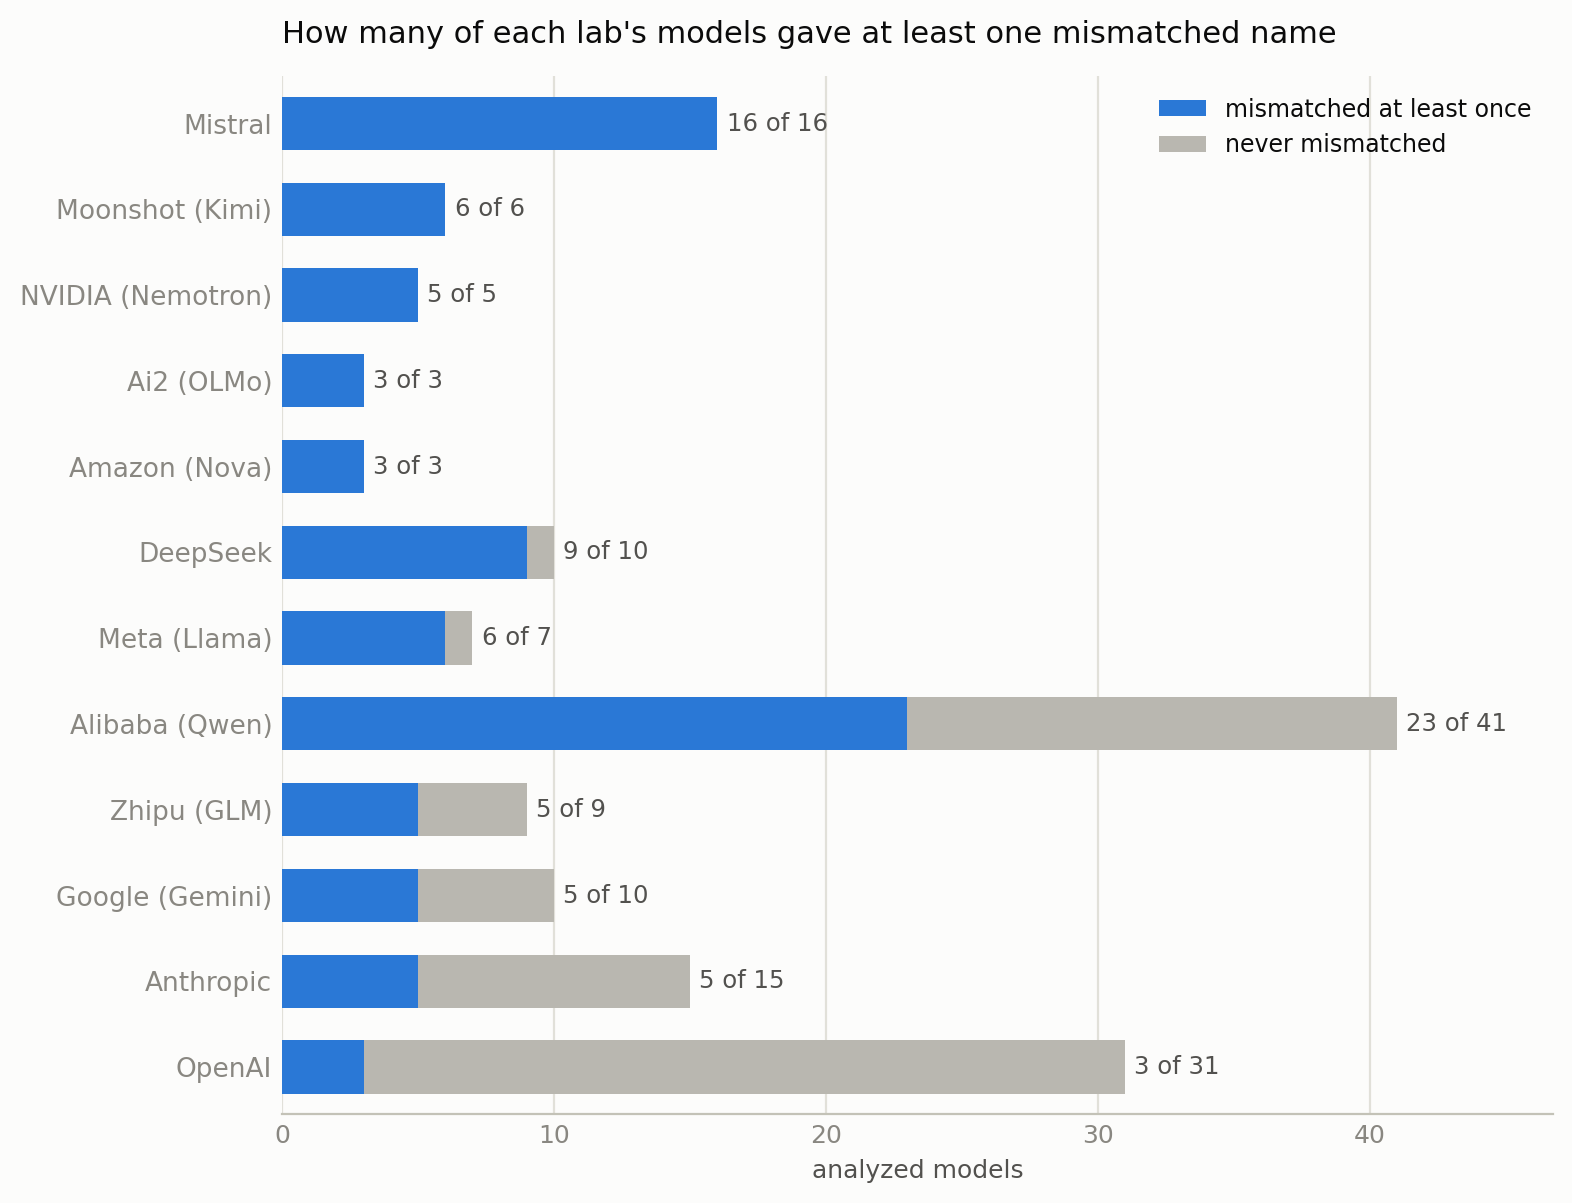
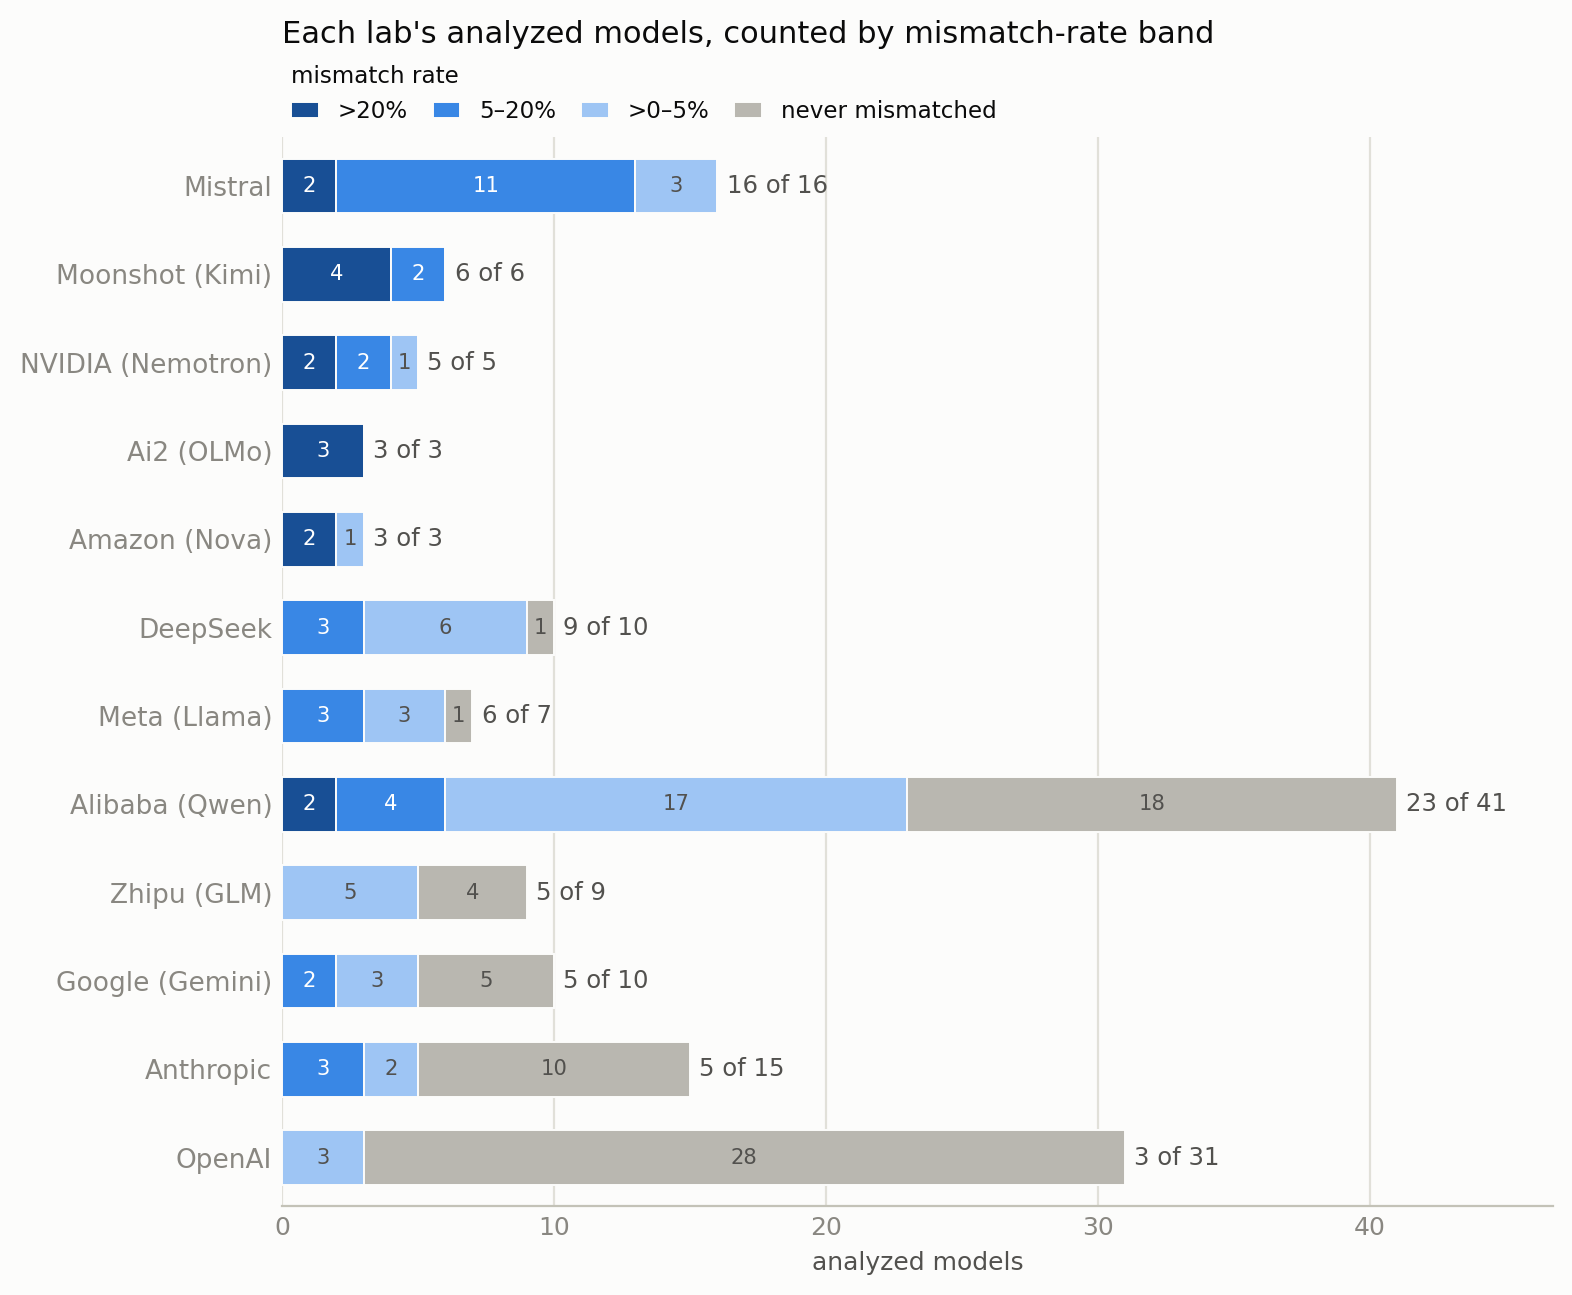
fig_family_counts: band each lab's models by mismatch rate (same bands/colors as fig_distribution)
Claude-Session: https://claude.ai/code/session_01Anj4JvuNgPGS3kunnJgPkZ

Changed region(s): [[0.0312, 0.0, 0.9663, 0.9842]]

diff --git a/sweep/fig_post.py b/sweep/fig_post.py
@@ -72,35 +72,49 @@ NEVER_GRAY = "#b9b7b0"   # the house data-gray (fig_all_models "other", fig_flow
 
 
 def fig_family_counts(reg, per):
-    """Per major lab (≥3 analyzed models): how many of its models gave at least
-    one mismatched response vs never did. Read off "16 of 16 Mistrals"."""
+    """Per major lab (≥3 analyzed models): its models counted into the SAME four
+    mismatch-rate bands (and colors) as fig_distribution, stacked severe→never.
+    The bar-end annotation keeps the "16 of 16 Mistrals" reading."""
+    BANDS = [(">20%", lambda r: r > 20, SEQ[6]),
+             ("5–20%", lambda r: 5 < r <= 20, SEQ[4]),
+             (">0–5%", lambda r: 0 < r <= 5, SEQ[2]),
+             ("never mismatched", lambda r: r == 0, NEVER_GRAY)]
     rows = []
     for slug in MAIN_LABS:
         mids = [m for m in per if reg[m]["family"] == slug]
         if len(mids) < 3:
             continue
-        hit = sum(1 for m in mids if per[m]["d"] > 0)
-        rows.append((FAMILY_DISPLAY.get(slug, slug), hit, len(mids)))
-    rows.sort(key=lambda r: (r[1] / r[2], r[2]))          # top row = highest fraction
+        rates = [100 * per[m]["d"] / per[m]["n"] for m in mids]
+        counts = [sum(1 for r in rates if f(r)) for _, f, _ in BANDS]
+        rows.append((FAMILY_DISPLAY.get(slug, slug), counts, len(mids)))
+    rows.sort(key=lambda r: ((r[2] - r[1][-1]) / r[2], r[2]))   # top row = highest ≥once fraction
     n = len(rows)
     ys = np.arange(n)
-    fig, ax = plt.subplots(figsize=(8.2, 0.42 * n + 1.7))
-    ax.barh(ys, [h for _, h, _ in rows], height=0.62, color=CAT[0], zorder=3,
-            label="mismatched at least once")
-    ax.barh(ys, [t - h for _, h, t in rows], left=[h for _, h, _ in rows], height=0.62,
-            color=NEVER_GRAY, zorder=3, label="never mismatched")
-    for y, (_, h, t) in zip(ys, rows):
-        ax.text(t + 0.35, y, f"{h} of {t}", va="center", fontsize=8.8, color=INK2)
+    fig, ax = plt.subplots(figsize=(8.2, 0.42 * n + 1.9))
+    for bi, (lab, _, col) in enumerate(BANDS):
+        lefts = [sum(c[:bi]) for _, c, _ in rows]
+        vals = [c[bi] for _, c, _ in rows]
+        ax.barh(ys, vals, left=lefts, height=0.62, color=col, zorder=3,
+                edgecolor=SURFACE, linewidth=0.7, label=lab)
+        for y, l, v in zip(ys, lefts, vals):
+            if v > 0:
+                ax.text(l + v / 2, y, str(v), ha="center", va="center", fontsize=7.6,
+                        color="#ffffff" if col in (SEQ[6], SEQ[4]) else INK2)
+    for y, (_, c, t) in zip(ys, rows):
+        ax.text(t + 0.35, y, f"{t - c[-1]} of {t}", va="center", fontsize=8.8, color=INK2)
     ax.set_yticks(ys, [d for d, _, _ in rows], fontsize=9.5)
     ax.set_ylim(-0.55, n - 0.45)
     ax.set_xlim(0, max(t for _, _, t in rows) * 1.14)
     ax.set_xlabel("analyzed models")
     ax.xaxis.grid(True, color=GRID, lw=0.8)
     ax.set_axisbelow(True)
-    ax.legend(frameon=False, fontsize=8.5, loc="upper right")
+    ax.legend(frameon=False, fontsize=8.3, ncols=4, loc="lower left",
+              bbox_to_anchor=(0, 1.005), borderaxespad=0,
+              handlelength=1.2, columnspacing=1.1, title="mismatch rate",
+              title_fontsize=8.3, alignment="left")
     style(ax)
-    ax.set_title("How many of each lab's models gave at least one mismatched name",
-                 loc="left", fontsize=11, pad=12)
+    ax.set_title("Each lab's analyzed models, counted by mismatch-rate band",
+                 loc="left", fontsize=11, pad=34)
     save(fig, "fig_family_counts.png")
 
 
